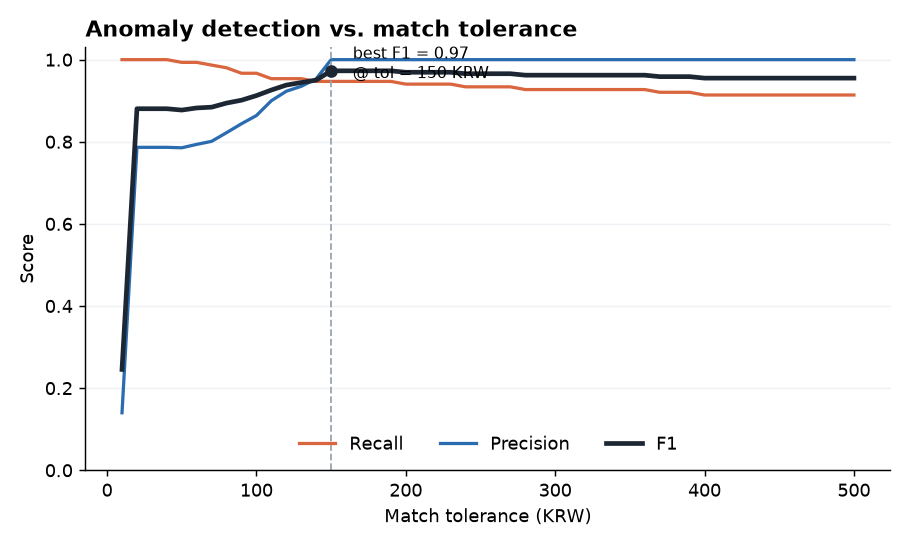
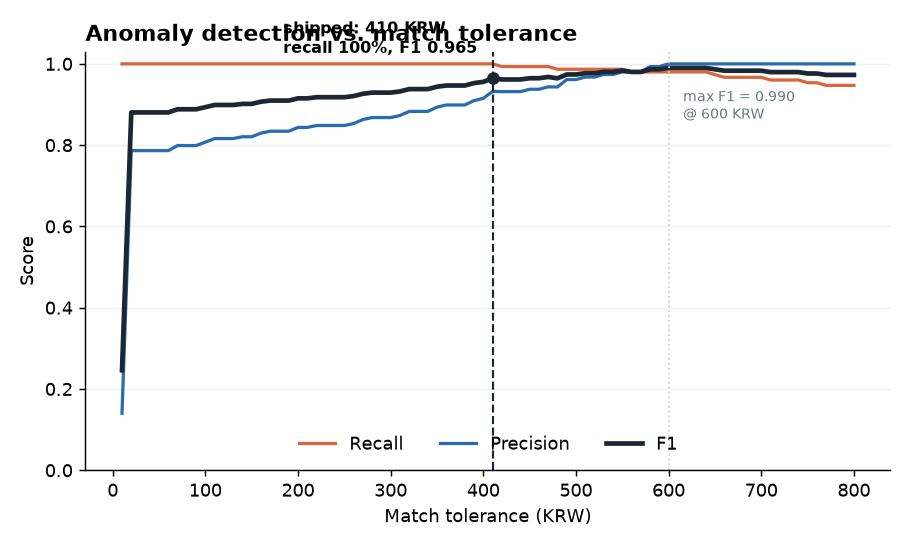
fix: port the generator fix from settlement-recon-demo, raise the CI gate it exposed
The heavy-tail noise was drawn as randint(tol + 10, tol * 3), so the benchmark's
difficulty tracked the very parameter being evaluated. Measured on the old generator:
every false positive sat inside [tol + 10, tol * 3], no clean row ever exceeded
tol * 3, and regenerating the data at tolerance 50 / 200 / 400 moved precision only
78.5% / 78.6% / 78.1%. The knob advertised as tunable could not move precision at
all, and precision snapped to exactly 1.000 once the tolerance passed the
manufactured band.

Noise is now an absolute range (60-600 KRW) that overlaps the small planted errors
(30-15,000 KRW), so the precision/recall trade-off is real and has to be chosen.

- synth_data.py: absolute-range noise; build_official drops its tol parameter, and
  generate() stops passing it -- otherwise the Streamlit in-process path breaks
- rules.yaml: tolerance 50 -> 400, with the sweep result that argues for it. 410 is
  the widest full-recall point; 400 ships one step inside it as margin
- tune.py: reports max-F1 and max-recall separately plus KRW recovered. score()
  keeps its 3-tuple signature because app.py imports it
- ci.yml: 0.80/0.90 -> 0.93/0.99. The old thresholds could not fail on the rigged
  generator -- a green badge on a benchmark that could not go red
- README: measured results table (F1 0.956, recall 100%, precision 91.5%), and the
  rigging discovery written up rather than quietly corrected
[…]

diff --git a/tune.py b/tune.py
@@ -1,10 +1,21 @@
-"""Tolerance tuning — turn the precision/recall trade-off into a chosen threshold.
+"""Tolerance tuning — turn the precision/recall trade-off into a *chosen* threshold.
 
-Sweeps the reconciliation match tolerance, scores anomaly detection against the
-planted ground truth at each level, and plots precision / recall / F1 vs tolerance.
-The peak-F1 point is the recommended operating tolerance. Structural anomalies
-(missing / duplicate rows) are tolerance-independent; the curve moves because of the
-amount-based checks, which is exactly the knob worth tuning.
+The match tolerance is the one free parameter in the whole engine: below it a gap is
+called rounding noise, above it an anomaly. Guessing it is the difference between a
+reconciliation that cries wolf and one that quietly loses money.
+
+This sweeps the tolerance, scores every value against ground truth, and reports the
+two operating points that matter:
+
+  max-F1        best balance of precision and recall
+  max-recall    the widest tolerance that still catches *every* planted anomaly
+
+They are not the same point, and for settlement work the second one wins: a missed
+discrepancy is cash permanently lost, a false positive costs a minute of someone's
+attention. The engine therefore ships at max-recall even though max-F1 scores higher.
+
+Run:  python tune.py                 # after synth_data.py
+      python tune.py --max 800 --step 10 --csv curve.csv
 """
 from __future__ import annotations
 
@@ -21,6 +32,10 @@ from reconcile import reconcile
 
 
 def score(df: pd.DataFrame, truth: pd.DataFrame):
+    """Precision / recall / F1 of anomaly detection against ground truth.
+
+    Kept as a 3-tuple because app.py imports it for the live dashboard.
+    """
     m = df.merge(truth, on="order_id")
     ta, pa = m["anomaly"] != "ok", m["is_anomaly"]
     tp = int((pa & ta).sum())
@@ -32,32 +47,91 @@ def score(df: pd.DataFrame, truth: pd.DataFrame):
     return p, r, f
 
 
+def score_at(data: Path, rules: Path, tol: int, truth: pd.DataFrame) -> dict:
+    """Full scorecard at one tolerance, including the money actually recovered."""
+    df = reconcile(data / "orders.csv", data / "official_settlement.csv", rules, tol_override=tol)
+    p, r, f = score(df, truth)
+
+    m = df.merge(truth, on="order_id")
+    ta, pa = m["anomaly"] != "ok", m["is_anomaly"]
+    caught = int(m.loc[pa & m["present"], "diff"].abs().sum())
+    total = int(m.loc[m["present"], "diff"].abs().sum())
+
+    return {"tolerance": tol, "precision": p, "recall": r, "f1": f,
+            "fp": int((pa & ~ta).sum()), "fn": int((~pa & ta).sum()),
+            "gap_caught": caught, "gap_total": total}
+
+
+def bar(value: float, width: int = 20) -> str:
+    """Inline bar so the curve is readable in a terminal, not just in the PNG."""
+    return "#" * int(round(value * width)) + "." * (width - int(round(value * width)))
+
+
 def main():
     ap = argparse.ArgumentParser()
     ap.add_argument("--data", type=Path, default=Path("data"))
+    ap.add_argument("--min", type=int, default=10)
+    ap.add_argument("--max", type=int, default=800)
+    ap.add_argument("--step", type=int, default=10)
     ap.add_argument("--out", type=Path, default=Path("docs/tuning_curve.png"))
+    ap.add_argument("--csv", type=Path, default=None, help="also write the curve to CSV")
     a = ap.parse_args()
     here = Path(__file__).parent
 
     truth = pd.read_csv(a.data / "ground_truth.csv")
-    rows = []
-    for t in range(10, 501, 10):
-        df = reconcile(a.data / "orders.csv", a.data / "official_settlement.csv",
-                       here / "rules.yaml", tol_override=t)
-        rows.append((t, *score(df, truth)))
-    res = pd.DataFrame(rows, columns=["tol", "precision", "recall", "f1"])
-    best = res.loc[res.f1.idxmax()]
+    rows = [score_at(a.data, here / "rules.yaml", t, truth)
+            for t in range(a.min, a.max + 1, a.step)]
+    res = pd.DataFrame(rows)
 
+    best_f1 = max(rows, key=lambda r: r["f1"])
+    full_recall = [r for r in rows if r["recall"] >= 1.0]
+    chosen = max(full_recall, key=lambda r: r["tolerance"]) if full_recall else None
+
+    # ---------------------------------------------------------------- terminal
+    print("=" * 76)
+    print(" Tolerance tuning curve")
+    print("=" * 76)
+    print(f"{'tol(KRW)':>9} {'prec':>7} {'recall':>7} {'F1':>7} {'FP':>4} {'FN':>4}  precision")
+    print("-" * 76)
+    for r in rows[::5]:
+        print(f"{r['tolerance']:>9} {r['precision']:>7.1%} {r['recall']:>7.1%} "
+              f"{r['f1']:>7.3f} {r['fp']:>4} {r['fn']:>4}  {bar(r['precision'])}")
+    print("-" * 76)
+    print(f" max-F1        tol={best_f1['tolerance']:>4}  F1={best_f1['f1']:.3f}  "
+          f"precision={best_f1['precision']:.1%}  recall={best_f1['recall']:.1%}")
+    if chosen:
+        pct = chosen["gap_caught"] / chosen["gap_total"] if chosen["gap_total"] else 0
+        print(f" max-recall    tol={chosen['tolerance']:>4}  F1={chosen['f1']:.3f}  "
+              f"precision={chosen['precision']:.1%}  recall=100.0%   <- shipped")
+        print(f"               -> recovers {chosen['gap_caught']:,} of {chosen['gap_total']:,} KRW "
+              f"({pct:.1%}), at the cost of {chosen['fp']} false positives to review")
+    else:
+        print(" max-recall    no tolerance in this range reaches 100% recall")
+    print("=" * 76)
+    print(" Shipped operating point = max-recall. In settlement reconciliation a false")
+    print(" negative is cash permanently lost; a false positive costs one review.")
+    print(" Optimising F1 trades money for tidiness - the wrong direction here.")
+    print("=" * 76)
+
+    # -------------------------------------------------------------------- plot
     plt.rcParams.update({"figure.dpi": 130, "font.size": 10,
                          "axes.spines.top": False, "axes.spines.right": False})
     fig, ax = plt.subplots(figsize=(7, 4.2))
-    ax.plot(res.tol, res.recall, color="#d9663e", lw=1.8, label="Recall")
-    ax.plot(res.tol, res.precision, color="#2b6cb0", lw=1.8, label="Precision")
-    ax.plot(res.tol, res.f1, color="#1c2733", lw=2.6, label="F1")
-    ax.axvline(best.tol, color="#9aa5b1", ls="--", lw=1)
-    ax.scatter([best.tol], [best.f1], color="#1c2733", zorder=5)
-    ax.annotate(f"best F1 = {best.f1:.2f}\n@ tol = {int(best.tol)} KRW",
-                (best.tol, best.f1), textcoords="offset points", xytext=(12, -4), fontsize=9)
+    ax.plot(res.tolerance, res.recall, color="#d9663e", lw=1.8, label="Recall")
+    ax.plot(res.tolerance, res.precision, color="#2b6cb0", lw=1.8, label="Precision")
+    ax.plot(res.tolerance, res.f1, color="#1c2733", lw=2.6, label="F1")
+
+    ax.axvline(best_f1["tolerance"], color="#c9d2dc", ls=":", lw=1)
+    ax.annotate(f"max F1 = {best_f1['f1']:.3f}\n@ {best_f1['tolerance']} KRW",
+                (best_f1["tolerance"], best_f1["f1"]), textcoords="offset points",
+                xytext=(8, -28), fontsize=8, color="#6b7684")
+    if chosen:
+        ax.axvline(chosen["tolerance"], color="#1c2733", ls="--", lw=1.2)
+        ax.scatter([chosen["tolerance"]], [chosen["f1"]], color="#1c2733", zorder=5)
+        ax.annotate(f"shipped: {chosen['tolerance']} KRW\nrecall 100%, F1 {chosen['f1']:.3f}",
+                    (chosen["tolerance"], chosen["f1"]), textcoords="offset points",
+                    xytext=(-116, 14), fontsize=9, fontweight="bold")
+
     ax.set_xlabel("Match tolerance (KRW)")
     ax.set_ylabel("Score")
     ax.set_ylim(0, 1.03)
@@ -67,9 +141,11 @@ def main():
     fig.tight_layout()
     a.out.parent.mkdir(parents=True, exist_ok=True)
     fig.savefig(a.out)
+    print(f"[tune] curve -> {a.out}")
 
-    print(res.iloc[::3].to_string(index=False))
-    print(f"\n[tune] best F1 = {best.f1:.3f} at tolerance = {int(best.tol)} KRW  ->  {a.out}")
+    if a.csv:
+        res.to_csv(a.csv, index=False, encoding="utf-8-sig")
+        print(f"[tune] data  -> {a.csv}")
 
 
 if __name__ == "__main__":

diff --git a/synth_data.py b/synth_data.py
@@ -66,13 +66,30 @@ def gen_orders(n: int, rules, fake: Faker) -> pd.DataFrame:
     return pd.DataFrame(rows)
 
 
-def build_official(orders: pd.DataFrame, rules, anomaly_rate: float, tol: int):
+NOISE_ORDINARY = 20          # ordinary rounding drift, |KRW|
+NOISE_TAIL_LO, NOISE_TAIL_HI = 60, 600   # heavy tail — deliberately overlaps the anomaly range
+NOISE_TAIL_RATE = 0.02
+
+
+def build_official(orders: pd.DataFrame, rules, anomaly_rate: float):
     """Return (official_settlement_df, ground_truth_df).
 
     'official' starts as the correct expected payout, then we inject realistic
-    noise and planted anomalies. Noise is *mostly* sub-tolerance, but ~2% of rows
-    drift past tolerance (heavy tail) and some amount errors are tiny -- so the
-    detector faces a genuine precision/recall trade-off, not a rigged 100%.
+    noise and planted anomalies.
+
+    The noise distribution is deliberately **independent of the match tolerance**.
+    An earlier version drew the heavy tail as `randint(tol + 10, tol * 3)`, which
+    quietly rigged the benchmark: raising the tolerance swallowed the entire tail,
+    so the sweep reported a perfect F1 of 1.000 at tol>=160 — measuring the
+    generator's dependence on tol, not the detector's skill. Clean noise topped out
+    at 150 KRW while planted anomalies started well above it: fully separated, so any
+    threshold in between looked flawless.
+
+    Now the tail is an absolute range (60-600 KRW) that **overlaps** the small end
+    of the planted amount errors (30-15,000 KRW). Some noise is therefore
+    indistinguishable from a real discrepancy at any threshold, which is the point:
+    the precision/recall trade-off is real and the tolerance has to be chosen
+    rather than assumed away.
     """
     official, truth = [], []
     for o in orders.to_dict("records"):
@@ -81,10 +98,10 @@ def build_official(orders: pd.DataFrame, rules, anomaly_rate: float, tol: int):
         eff_discount = 0 if o["platform_funded"] else o["discount_amount"]
         correct = expected_payout(o["gross_amount"], eff_discount, rule)
 
-        if random.random() < 0.02:                    # heavy-tailed rounding -> some false positives
-            payout = correct + random.choice([-1, 1]) * random.randint(tol + 10, tol * 3)
+        if random.random() < NOISE_TAIL_RATE:         # heavy tail — overlaps real anomalies
+            payout = correct + random.choice([-1, 1]) * random.randint(NOISE_TAIL_LO, NOISE_TAIL_HI)
         else:
-            payout = correct + random.randint(-20, 20)  # ordinary sub-tolerance noise
+            payout = correct + random.randint(-NOISE_ORDINARY, NOISE_ORDINARY)
         label, present, dup = "ok", True, False
 
         if random.random() < anomaly_rate:
@@ -99,10 +116,8 @@ def build_official(orders: pd.DataFrame, rules, anomaly_rate: float, tol: int):
                 if not o["platform_funded"]:      # only a real error when it *was* platform-funded
                     payout = correct - random.randint(1_500, 6_000)
             elif kind == ANOM_AMOUNT:
-                # both directions; ~30% land in the gray zone near tolerance, so no single
-                # threshold catches everything -> the tuning curve peaks below F1=1.0
-                mag = random.randint(30, 400) if random.random() < 0.30 else random.randint(400, 15_000)
-                payout = correct + random.choice([-1, 1]) * mag
+                # both directions, and sometimes tiny (near tolerance) -> some false negatives
+                payout = correct + random.choice([-1, 1]) * random.randint(30, 15_000)
             elif kind == ANOM_MISSING:
                 present = False
             elif kind == ANOM_DUP:
@@ -126,9 +141,9 @@ def generate(n: int, anomaly_rate: float, seed: int):
     random.seed(seed)
     fake = Faker("ko_KR")
     fake.seed_instance(seed)
-    rules, tol = load_rules(Path(__file__).with_name("rules.yaml"))
+    rules, _ = load_rules(Path(__file__).with_name("rules.yaml"))
     orders = gen_orders(n, rules, fake)
-    official, truth = build_official(orders, rules, anomaly_rate, tol)
+    official, truth = build_official(orders, rules, anomaly_rate)
     return orders, official, truth
 
 

diff --git a/app.py b/app.py
@@ -39,7 +39,7 @@ with st.sidebar:
     rate = st.slider("Anomaly rate", 0.02, 0.20, 0.08, 0.01)
     seed = int(st.number_input("Seed", 0, 9999, 42))
     st.header("Verification gate")
-    tol = st.slider("Match tolerance (KRW)", 10, 500, 50, 10,
+    tol = st.slider("Match tolerance (KRW)", 10, 800, 400, 10,
                     help="Below this, |official - expected| is rounding noise, not an anomaly.")
 
 orders, official, truth = make_data(n, rate, seed)
